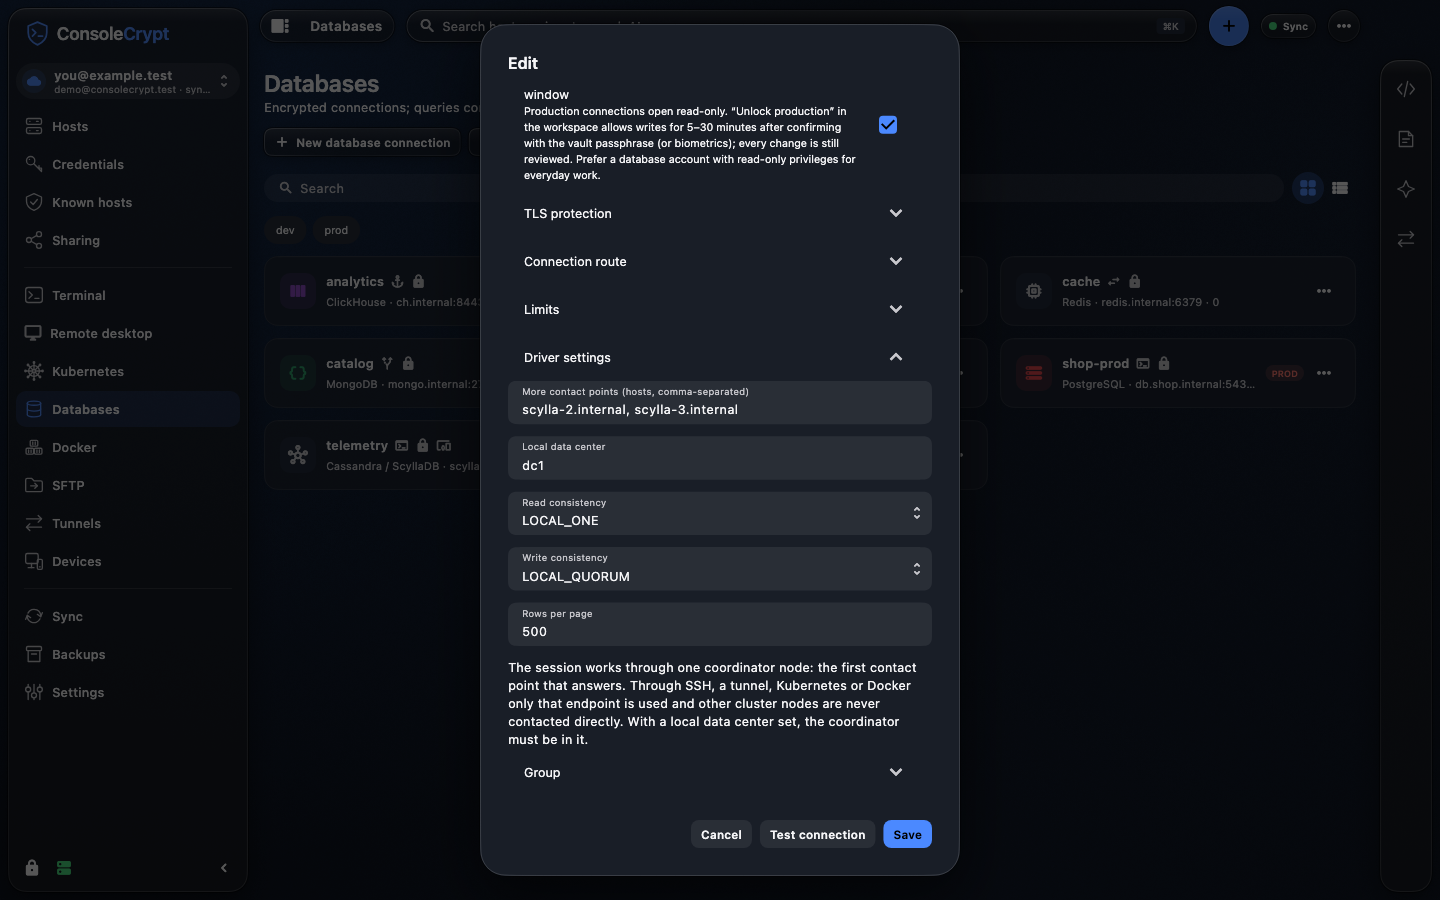
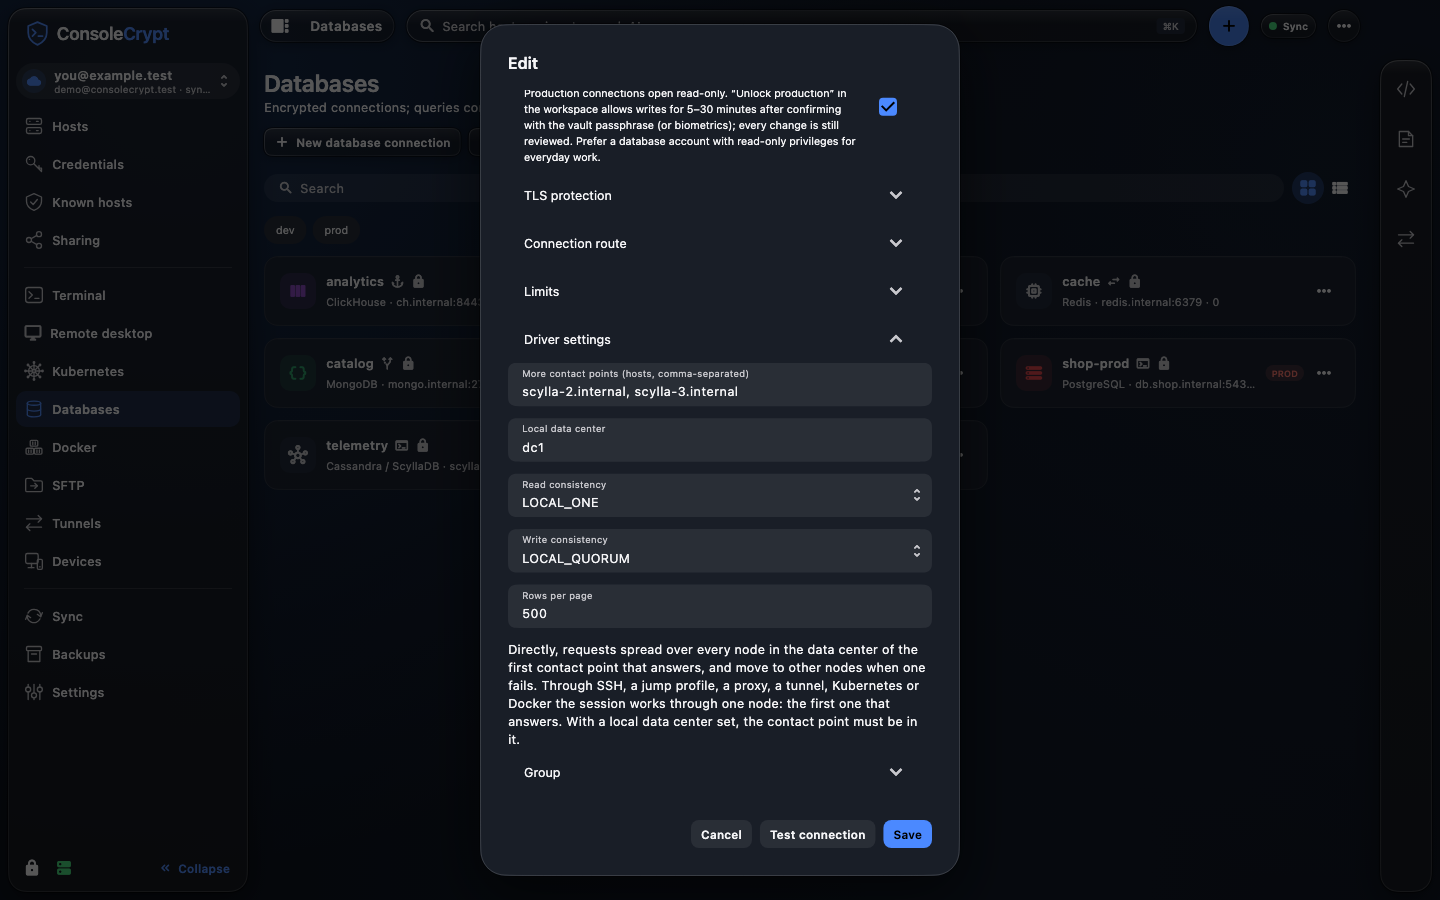
Docs: Cassandra sessions use every node of the datacenter (FEAT-12)

diff --git a/assets/guide-content.js b/assets/guide-content.js
@@ -1649,7 +1649,7 @@ export const guideSections = [
       b('«Только чтение» включено по умолчанию: файл открывается только для чтения, и ни один запрос не может его изменить. Без флажка действуют обычные правила — проверка изменений, а для прода временное окно записи. ATTACH, VACUUM INTO, загрузка расширений и изменяющие PRAGMA запрещены всегда.', '“Read only” is on by default: the file opens read-only and no query can change it. Without it, the usual rules apply: changes are reviewed, and production needs a temporary write window. ATTACH, VACUUM INTO, loading extensions and changing pragmas are always refused.'),
       b('Структура файла: «Таблицы», «Представления», «Индексы», «Последовательности» (счётчики AUTOINCREMENT), «Триггеры таблиц» и «Типы данных». У таблицы — «Колонки» в виде «имя (ТИП)», «Ключи», «Внешние ключи», «Индексы», «Ссылки» (внешние ключи других таблиц на эту) и «Триггеры». DDL, сведения об объекте, план EXPLAIN QUERY PLAN, экспорт и правка ячеек по первичному ключу или rowid работают как у других движков.', 'A file’s structure: Tables, Views, Indexes, Sequences (AUTOINCREMENT counters), Table triggers and Data types. A table holds Columns shown as “name (TYPE)”, Keys, Foreign keys, Indexes, References (other tables’ foreign keys pointing here) and Triggers. DDL, object details, the EXPLAIN QUERY PLAN tree, export and cell editing by primary key or rowid work as for the other engines.'),
       b('Для Cassandra и ScyllaDB выберите движок «Cassandra / ScyllaDB» (порт 9042): «Адрес» — первый контактный узел, «Keyspace (пространство ключей)» — keyspace по умолчанию. В «Параметрах драйвера» задайте «Дополнительные контактные узлы», «Локальный дата-центр», уровни согласованности чтения (по умолчанию LOCAL_ONE) и записи (LOCAL_QUORUM) и «Строк на страницу» (500).', 'For Cassandra and ScyllaDB, choose the “Cassandra / ScyllaDB” engine (port 9042): “Host” is the first contact point and “Keyspace” the default keyspace. Under “Driver settings”, set “More contact points”, “Local data center”, the read (LOCAL_ONE by default) and write (LOCAL_QUORUM) consistency and “Rows per page” (500).'),
-      b('Сеанс работает через один узел-координатор — первый ответивший контактный узел; к остальным узлам кластера приложение напрямую не подключается. Поэтому подключение одинаково работает напрямую и через SSH-хост, туннель, Kubernetes или Docker. Если задан локальный дата-центр, координатор должен находиться в нём.', 'A session works through one coordinator node: the first contact point that answers; other cluster nodes are never contacted directly. That is why the connection works the same directly and through an SSH host, a tunnel, Kubernetes or Docker. With a local data center set, the coordinator must be in it.'),
+      b('При прямом подключении запросы распределяются по всем узлам дата-центра первого ответившего контактного узла и при отказе узла переходят на другие; через SSH, туннели и пробросы сеанс работает через один узел. Поэтому подключение одинаково работает напрямую и через SSH-хост, туннель, Kubernetes или Docker. Если задан локальный дата-центр, контактный узел должен находиться в нём.', 'Directly, requests spread over every node in the data center of the first contact point that answers and move to other nodes when one fails; through SSH, tunnels and forwards the session works through one node. That is why the connection works the same directly and through an SSH host, a tunnel, Kubernetes or Docker. With a local data center set, the contact point must be in it.'),
       b('Запросы пишутся на CQL, и каждый разбирается в приложении до отправки: SELECT, DESCRIBE, LIST и USE читают, INSERT, UPDATE, DELETE и BATCH проходят проверку изменений, DROP и TRUNCATE считаются опасными, а GRANT, REVOKE и управление ролями на проде запрещены даже в окне записи. SELECT с ALLOW FILTERING или без WHERE и LIMIT сначала просит подтверждения. Следующая страница результата загружается только по «Загрузить ещё».', 'Queries are written in CQL, and each one is parsed in the app before it is sent: SELECT, DESCRIBE, LIST and USE read; INSERT, UPDATE, DELETE and BATCH go through the change review; DROP and TRUNCATE count as dangerous; GRANT, REVOKE and role management are refused on production even in a write window. A SELECT with ALLOW FILTERING, or without WHERE and LIMIT, asks for confirmation first. The next result page loads only on “Load more”.'),
       b('Структура Cassandra: keyspace с репликацией → таблицы, материализованные представления, пользовательские типы, функции и агрегаты → колонки с пометками PARTITION KEY, CLUSTERING ASC/DESC и STATIC. Ячейку можно править, если результат содержит весь первичный ключ: строки обновляются через UPDATE … IF EXISTS, строки одной партиции — одним условным BATCH (все или ни одна). Разные партиции меняются не вместе — окно проверки об этом предупреждает.', 'Cassandra structure: keyspaces with their replication → tables, materialized views, user types, functions and aggregates → columns marked PARTITION KEY, CLUSTERING ASC/DESC and STATIC. A cell can be edited when the result holds the whole primary key: rows are updated with UPDATE … IF EXISTS, and rows of one partition in one conditional BATCH (all or none). Different partitions do not change together — the review warns about it.'),
     ],
@@ -1657,7 +1657,7 @@ export const guideSections = [
     image: shot('db-sqlite-tree', 'Файл SQLite на этом компьютере: таблица items с колонками «имя (ТИП)», внешними ключами, ссылками и триггером; ниже папки последовательностей, триггеров таблиц и типов данных. Сеанс только для чтения.', 'An SQLite file on this computer: the items table with “name (TYPE)” columns, foreign keys, references and a trigger; below, the sequence, table trigger and data type folders. The session is read-only.'),
     images: [
       shot('db-sqlite-connection', 'Подключение SQLite: файл на этом компьютере, «Только чтение» включено, пометка «Только на этом устройстве».', 'An SQLite connection: a file on this computer, “Read only” on, and the “This device only” note.'),
-      shot('db-cassandra-connection', 'Cassandra / ScyllaDB: контактные узлы, локальный дата-центр, уровни согласованности и пояснение про один узел-координатор.', 'Cassandra / ScyllaDB: contact points, the local data center, consistency levels and the note on the single coordinator.'),
+      shot('db-cassandra-connection', 'Cassandra / ScyllaDB: контактные узлы, локальный дата-центр, уровни согласованности и пояснение, какие узлы использует сеанс.', 'Cassandra / ScyllaDB: contact points, the local data center, consistency levels and the note on which nodes a session uses.'),
     ],
   },
   {

diff --git a/guide/ru.md b/guide/ru.md
@@ -1804,7 +1804,7 @@ SQLite — это файл, а не сервер; Cassandra и ScyllaDB рабо
 
 5. Для Cassandra и ScyllaDB выберите движок «Cassandra / ScyllaDB» (порт 9042): «Адрес» — первый контактный узел, «Keyspace (пространство ключей)» — keyspace по умолчанию. В «Параметрах драйвера» задайте «Дополнительные контактные узлы», «Локальный дата-центр», уровни согласованности чтения (по умолчанию LOCAL\_ONE) и записи (LOCAL\_QUORUM) и «Строк на страницу» (500).
 
-6. Сеанс работает через один узел-координатор — первый ответивший контактный узел; к остальным узлам кластера приложение напрямую не подключается. Поэтому подключение одинаково работает напрямую и через SSH-хост, туннель, Kubernetes или Docker. Если задан локальный дата-центр, координатор должен находиться в нём.
+6. При прямом подключении запросы распределяются по всем узлам дата-центра первого ответившего контактного узла и при отказе узла переходят на другие; через SSH, туннели и пробросы сеанс работает через один узел. Поэтому подключение одинаково работает напрямую и через SSH-хост, туннель, Kubernetes или Docker. Если задан локальный дата-центр, контактный узел должен находиться в нём.
 
 7. Запросы пишутся на CQL, и каждый разбирается в приложении до отправки: SELECT, DESCRIBE, LIST и USE читают, INSERT, UPDATE, DELETE и BATCH проходят проверку изменений, DROP и TRUNCATE считаются опасными, а GRANT, REVOKE и управление ролями на проде запрещены даже в окне записи. SELECT с ALLOW FILTERING или без WHERE и LIMIT сначала просит подтверждения. Следующая страница результата загружается только по «Загрузить ещё».
 
@@ -1822,9 +1822,9 @@ SQLite — это файл, а не сервер; Cassandra и ScyllaDB рабо
 
 Подключение SQLite: файл на этом компьютере, «Только чтение» включено, пометка «Только на этом устройстве».
 
-![Cassandra / ScyllaDB: контактные узлы, локальный дата-центр, уровни согласованности и пояснение про один узел-координатор.](../assets/guide/db-cassandra-connection-ru.png)
+![Cassandra / ScyllaDB: контактные узлы, локальный дата-центр, уровни согласованности и пояснение, какие узлы использует сеанс.](../assets/guide/db-cassandra-connection-ru.png)
 
-Cassandra / ScyllaDB: контактные узлы, локальный дата-центр, уровни согласованности и пояснение про один узел-координатор.
+Cassandra / ScyllaDB: контактные узлы, локальный дата-центр, уровни согласованности и пояснение, какие узлы использует сеанс.
 
 <a name="databases-queries"></a>
 

diff --git a/guide/en.md b/guide/en.md
@@ -1804,7 +1804,7 @@ SQLite is a file, not a server; Cassandra and ScyllaDB speak CQL. Both engines a
 
 5. For Cassandra and ScyllaDB, choose the “Cassandra / ScyllaDB” engine (port 9042): “Host” is the first contact point and “Keyspace” the default keyspace. Under “Driver settings”, set “More contact points”, “Local data center”, the read (LOCAL\_ONE by default) and write (LOCAL\_QUORUM) consistency and “Rows per page” (500).
 
-6. A session works through one coordinator node: the first contact point that answers; other cluster nodes are never contacted directly. That is why the connection works the same directly and through an SSH host, a tunnel, Kubernetes or Docker. With a local data center set, the coordinator must be in it.
+6. Directly, requests spread over every node in the data center of the first contact point that answers and move to other nodes when one fails; through SSH, tunnels and forwards the session works through one node. That is why the connection works the same directly and through an SSH host, a tunnel, Kubernetes or Docker. With a local data center set, the contact point must be in it.
 
 7. Queries are written in CQL, and each one is parsed in the app before it is sent: SELECT, DESCRIBE, LIST and USE read; INSERT, UPDATE, DELETE and BATCH go through the change review; DROP and TRUNCATE count as dangerous; GRANT, REVOKE and role management are refused on production even in a write window. A SELECT with ALLOW FILTERING, or without WHERE and LIMIT, asks for confirmation first. The next result page loads only on “Load more”.
 
@@ -1822,9 +1822,9 @@ An SQLite file on this computer: the items table with “name (TYPE)” columns,
 
 An SQLite connection: a file on this computer, “Read only” on, and the “This device only” note.
 
-![Cassandra / ScyllaDB: contact points, the local data center, consistency levels and the note on the single coordinator.](../assets/guide/db-cassandra-connection-en.png)
+![Cassandra / ScyllaDB: contact points, the local data center, consistency levels and the note on which nodes a session uses.](../assets/guide/db-cassandra-connection-en.png)
 
-Cassandra / ScyllaDB: contact points, the local data center, consistency levels and the note on the single coordinator.
+Cassandra / ScyllaDB: contact points, the local data center, consistency levels and the note on which nodes a session uses.
 
 <a name="databases-queries"></a>
 
